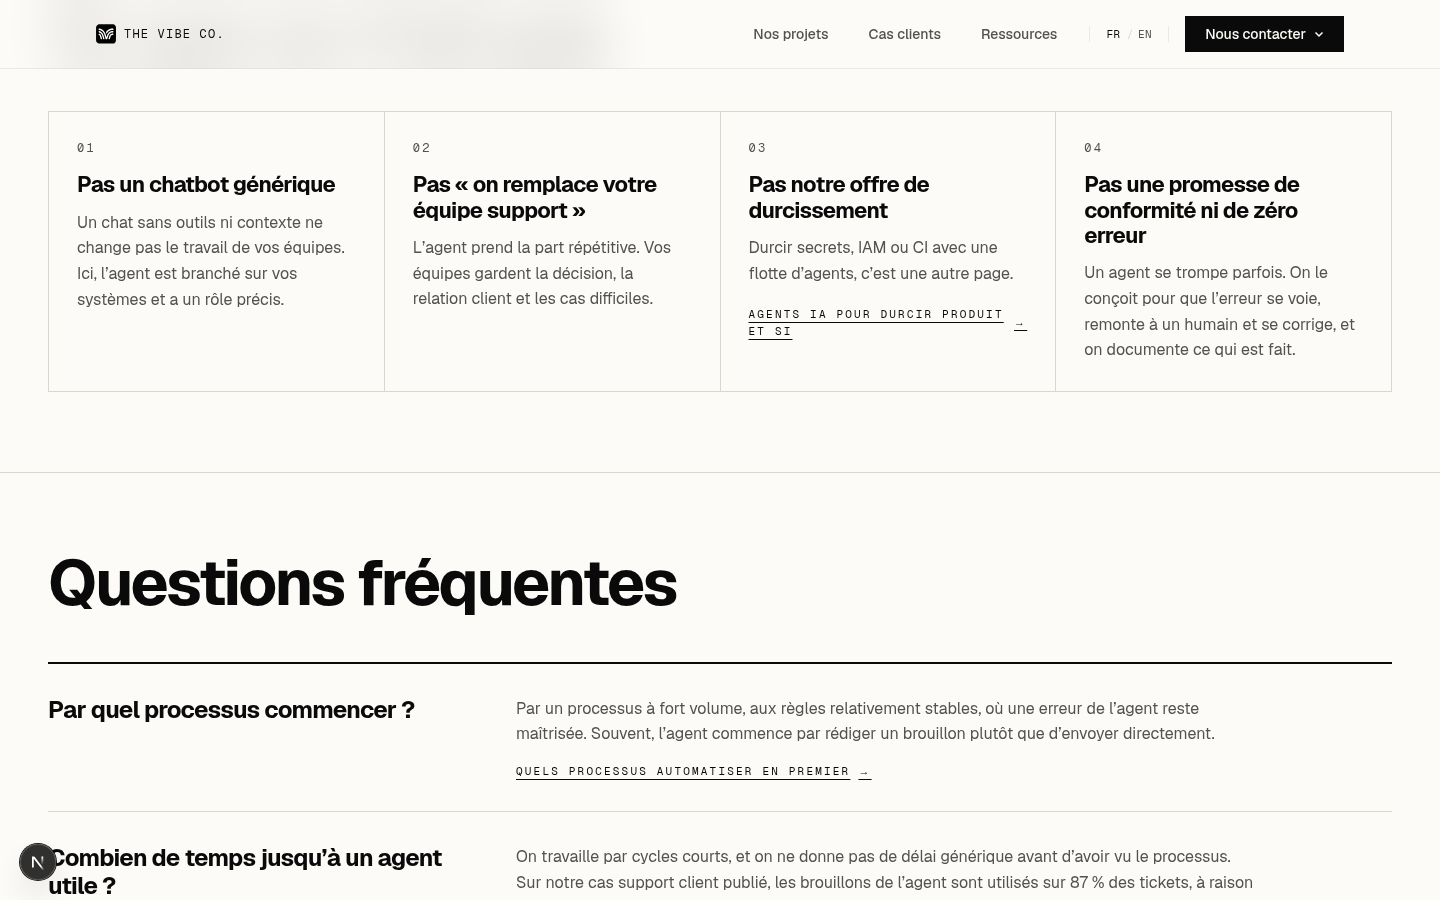
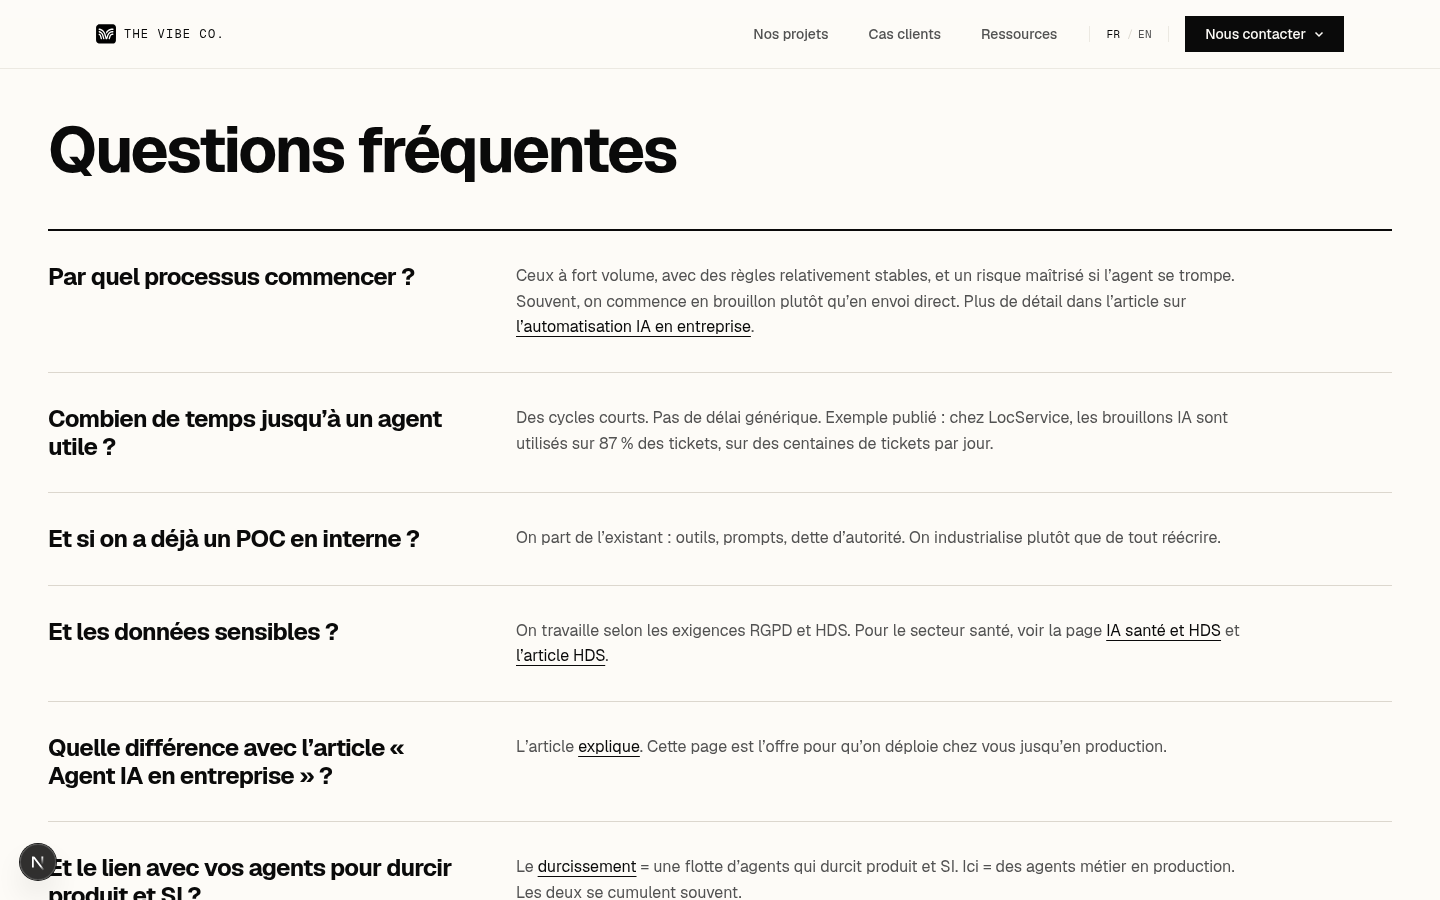
feat(seo): humanized French copy on the agents in production landing
Applies the Copy Humanizer French text to /fr/agents-ia-production, copy
only, same blocks. English renders unchanged.

- Hero, problem, offer, method, proof, "what this is not", FAQ and closing
  question follow the humanized copy word for word; title, meta and H1 stay
  as briefed.
- FAQ answers carry their links inline; the FAQPage markup restates them as
  plain text, and the timeline answer, which now names LocService, stays on
  the page only (structured data never carries client names).
- The booking CTA reads its labels from the page namespace ("Réponse sous
  24 h"); FinalCTA takes an optional per-page question, the shared default
  is unchanged elsewhere.
- Blocks the French copy drops (method and proof intros, the mid-page lead,
  card and under-FAQ links) render only when the language defines them.

diff --git a/src/components/agents-production/AgentsProductionPage.tsx b/src/components/agents-production/AgentsProductionPage.tsx
@@ -19,6 +19,7 @@ import {
   AGENTS_PRODUCTION_NOT_KEYS,
   AGENTS_PRODUCTION_OFFER_KEYS,
   AUTOMATION_GUIDE_PATHS,
+  plainText,
   POC_CHECKLIST_PATHS,
 } from "@/lib/agents-production";
 import { getCustomer, type ContentLocale } from "@/lib/customers";
@@ -117,10 +118,13 @@ export async function AgentsProductionPage({ locale }: { locale: string }) {
     serviceType: "Enterprise AI agent deployment and production operations",
     description: t("service.description"),
   });
+  // FAQPage carries the visible answer as plain text, with its inline link
+  // tags stripped. An answer that names a client is left out by
+  // `faqPageSchema` (see `isPublishable`).
   const faq = faqPageSchema(
     AGENTS_PRODUCTION_FAQ_KEYS.map((key) => ({
       question: t(`faq.items.${key}.q`),
-      answer: t(`faq.items.${key}.a`),
+      answer: plainText(t.raw(`faq.items.${key}.a`) as string),
     })),
   );
 
@@ -129,25 +133,55 @@ export async function AgentsProductionPage({ locale }: { locale: string }) {
   );
   const [featured, ...others] = cases;
 
-  // The links under each FAQ answer stay out of the answer itself, so the
-  // FAQPage markup restates the visible answer word for word.
-  const faqLinks: Partial<Record<(typeof AGENTS_PRODUCTION_FAQ_KEYS)[number], PageLink[]>> = {
-    start: [{ label: t("faq.links.automation"), href: automation, locale: pageLocale }],
-    timeline: [
-      { label: t("faq.links.locservice"), href: "/case-studies/locservice", locale: pageLocale },
-    ],
-    data: [
-      { label: t("faq.links.health"), href: splitPath(HEALTHCARE_AI_PATHS, locale), locale: pageLocale },
-      { label: t("faq.links.hds"), href: hdsGuide, locale: pageLocale },
-    ],
-    article: [{ label: t("faq.links.guide"), href: guide, locale: pageLocale }],
-    hardening: [{ label: t("faq.links.hardening"), href: hardening, locale: pageLocale }],
+  // Links inside the FAQ answers (the French copy) and under them (the
+  // English copy, which keeps a `faq.links` block). Each language only
+  // renders the variant its messages define.
+  const inlineLink = (href: string) => {
+    const InlineLink = (chunks: ReactNode) => (
+      <Link href={href} className={TEXT_LINK}>
+        {chunks}
+      </Link>
+    );
+    return InlineLink;
   };
+  const faqTags = {
+    automation: inlineLink(automation),
+    health: inlineLink(splitPath(HEALTHCARE_AI_PATHS, locale)),
+    hds: inlineLink(hdsGuide),
+    guide: inlineLink(guide),
+    hardening: inlineLink(hardening),
+  };
+  const faqLinks: Partial<Record<(typeof AGENTS_PRODUCTION_FAQ_KEYS)[number], PageLink[]>> =
+    t.has("faq.links")
+      ? {
+          start: [{ label: t("faq.links.automation"), href: automation, locale: pageLocale }],
+          timeline: [
+            { label: t("faq.links.locservice"), href: "/case-studies/locservice", locale: pageLocale },
+          ],
+          data: [
+            { label: t("faq.links.health"), href: splitPath(HEALTHCARE_AI_PATHS, locale), locale: pageLocale },
+            { label: t("faq.links.hds"), href: hdsGuide, locale: pageLocale },
+          ],
+          article: [{ label: t("faq.links.guide"), href: guide, locale: pageLocale }],
+          hardening: [{ label: t("faq.links.hardening"), href: hardening, locale: pageLocale }],
+        }
+      : {};
 
-  // The authority article exists in French only, so it is always linked there.
+  // Card links, only where the language's copy defines a label. The authority
+  // article exists in French only, so it is always linked there.
   const offerLinks: Partial<Record<(typeof AGENTS_PRODUCTION_OFFER_KEYS)[number], PageLink>> = {
-    scope: { label: t("offer.items.scope.link"), href: automation, locale: pageLocale },
-    authority: { label: t("offer.items.authority.link"), href: AGENT_AUTHORITY_PATH, locale: "fr" },
+    ...(t.has("offer.items.scope.link")
+      ? { scope: { label: t("offer.items.scope.link"), href: automation, locale: pageLocale } }
+      : {}),
+    ...(t.has("offer.items.authority.link")
+      ? {
+          authority: {
+            label: t("offer.items.authority.link"),
+            href: AGENT_AUTHORITY_PATH,
+            locale: "fr",
+          },
+        }
+      : {}),
   };
 
   const reading: { key: string; href: string; locale: Locale }[] = [
@@ -207,7 +241,11 @@ export async function AgentsProductionPage({ locale }: { locale: string }) {
             ))}
           </ul>
 
-          <AboutBookingCta page={page} location="cta_agents_production_hero" />
+          <AboutBookingCta
+            page={page}
+            location="cta_agents_production_hero"
+            namespace="agentsProduction"
+          />
           <AboutBackers label={tAbout("backedBy")} />
         </section>
 
@@ -300,9 +338,11 @@ export async function AgentsProductionPage({ locale }: { locale: string }) {
             >
               {t("method.title")}
             </h2>
-            <p className="m-0 mt-5 max-w-[680px] text-[15px] leading-[1.6] text-white/70 md:text-base">
-              {t("method.intro")}
-            </p>
+            {t.has("method.intro") ? (
+              <p className="m-0 mt-5 max-w-[680px] text-[15px] leading-[1.6] text-white/70 md:text-base">
+                {t("method.intro")}
+              </p>
+            ) : null}
 
             <span className="mt-12 block border-b border-white/15 pb-4 font-mono text-[11px] uppercase tracking-[0.2em] text-white/55 md:mt-16">
               {t("method.stepsLabel")}
@@ -336,10 +376,17 @@ export async function AgentsProductionPage({ locale }: { locale: string }) {
             <div className="mt-12 grid grid-cols-1 gap-6 md:mt-16 md:grid-cols-[200px_1fr] md:gap-12">
               <span aria-hidden="true" className="hidden md:block" />
               <div>
-                <p className="m-0 max-w-[620px] text-lg leading-[1.45] text-background md:text-[21px]">
-                  {t("method.ctaTitle")}
-                </p>
-                <AboutBookingCta page={page} location="cta_agents_production_method" inverse />
+                {t.has("method.ctaTitle") ? (
+                  <p className="m-0 max-w-[620px] text-lg leading-[1.45] text-background md:text-[21px]">
+                    {t("method.ctaTitle")}
+                  </p>
+                ) : null}
+                <AboutBookingCta
+                  page={page}
+                  location="cta_agents_production_method"
+                  namespace="agentsProduction"
+                  inverse
+                />
                 <Link
                   href={checklist}
                   className="mt-8 inline-flex items-center gap-2 font-mono text-[11px] uppercase tracking-[0.2em] text-background underline decoration-1 underline-offset-4 hover:text-white/70"
@@ -355,7 +402,9 @@ export async function AgentsProductionPage({ locale }: { locale: string }) {
         {/* 5 — Proof: agents already running, published cases only. */}
         <section className={`${SECTION} py-14 md:py-20`}>
           <h2 className={H2}>{t("proof.title")}</h2>
-          <p className={`${PROSE} mt-5 max-w-[680px]`}>{t("proof.intro")}</p>
+          {t.has("proof.intro") ? (
+            <p className={`${PROSE} mt-5 max-w-[680px]`}>{t("proof.intro")}</p>
+          ) : null}
 
           {featured ? (
             <article className="mt-10 grid grid-cols-1 border-2 border-foreground bg-background md:mt-14 md:grid-cols-[minmax(0,5fr)_minmax(0,7fr)]">
@@ -388,7 +437,7 @@ export async function AgentsProductionPage({ locale }: { locale: string }) {
                   href={`/case-studies/${featured.slug}`}
                   className={`${MONO_LINK} mt-8 self-start`}
                 >
-                  {t("proof.readCase")}
+                  {t("proof.readCase", { client: featured.client })}
                   <span aria-hidden="true">→</span>
                 </Link>
               </div>
@@ -410,7 +459,7 @@ export async function AgentsProductionPage({ locale }: { locale: string }) {
                   href={`/case-studies/${customer.slug}`}
                   className={`${MONO_LINK} mt-6 border-t border-border pt-5`}
                 >
-                  {t("proof.readCase")}
+                  {t("proof.readCase", { client: customer.client })}
                   <span aria-hidden="true">→</span>
                 </Link>
               </article>
@@ -428,10 +477,12 @@ export async function AgentsProductionPage({ locale }: { locale: string }) {
                   {String(i + 1).padStart(2, "0")}
                 </span>
                 <h3 className="m-0 mt-4 text-[20px] font-bold leading-[1.15] tracking-[-0.03em] text-foreground md:text-[22px]">
-                  {t(`not.items.${key}.title`)}
+                  {t.rich(`not.items.${key}.title`, { hardening: inlineLink(hardening) })}
                 </h3>
-                <p className={`${PROSE} mt-3`}>{t(`not.items.${key}.desc`)}</p>
-                {key === "hardening" ? (
+                {t.has(`not.items.${key}.desc`) ? (
+                  <p className={`${PROSE} mt-3`}>{t(`not.items.${key}.desc`)}</p>
+                ) : null}
+                {t.has(`not.items.${key}.link`) ? (
                   <Link href={hardening} className={`${MONO_LINK} mt-5`}>
                     {t("not.items.hardening.link")}
                     <span aria-hidden="true">→</span>
@@ -456,7 +507,7 @@ export async function AgentsProductionPage({ locale }: { locale: string }) {
                   {t(`faq.items.${key}.q`)}
                 </h3>
                 <div className="flex max-w-[70ch] flex-col gap-4">
-                  <p className={PROSE}>{t(`faq.items.${key}.a`)}</p>
+                  <p className={PROSE}>{t.rich(`faq.items.${key}.a`, faqTags)}</p>
                   {faqLinks[key] ? (
                     <div className="flex flex-wrap gap-x-6 gap-y-3">
                       {faqLinks[key].map((link) => (
@@ -528,7 +579,13 @@ export async function AgentsProductionPage({ locale }: { locale: string }) {
           </div>
         </section>
 
-        <FinalCTA />
+        <FinalCTA
+          title={
+            t.has("finalCta.titleLine1")
+              ? { line1: t("finalCta.titleLine1"), line2: t("finalCta.titleLine2") }
+              : undefined
+          }
+        />
       </main>
       <Footer />
     </div>

diff --git a/src/lib/agents-production.test.ts b/src/lib/agents-production.test.ts
@@ -7,6 +7,7 @@ import {
   AGENTS_PRODUCTION_CASE_SLUGS,
   AGENTS_PRODUCTION_FAQ_KEYS,
   AUTOMATION_GUIDE_PATHS,
+  plainText,
   POC_CHECKLIST_PATHS,
 } from "./agents-production";
 import { BOOKING_URL } from "./booking";
@@ -87,15 +88,38 @@ describe("agents in production landing", () => {
     expect(MESSAGES.en.proof.cases.locservice).toContain("87%");
   });
 
-  test("the whole FAQ goes into the FAQPage markup", () => {
-    for (const messages of Object.values(MESSAGES)) {
-      const items = AGENTS_PRODUCTION_FAQ_KEYS.map((key) => ({
-        question: messages.faq.items[key].q,
-        answer: messages.faq.items[key].a,
+  test("the FAQPage restates the visible answers as plain text", () => {
+    const answers = (locale: "fr" | "en") =>
+      AGENTS_PRODUCTION_FAQ_KEYS.map((key) => ({
+        question: MESSAGES[locale].faq.items[key].q,
+        answer: plainText(MESSAGES[locale].faq.items[key].a),
       }));
-      const schema = faqPageSchema(items) as { mainEntity: unknown[] };
-      expect(schema.mainEntity).toHaveLength(AGENTS_PRODUCTION_FAQ_KEYS.length);
+    type Entity = { name: string; acceptedAnswer: { text: string } };
+
+    // English keeps every answer free of client names: all six go in.
+    const en = faqPageSchema(answers("en")) as { mainEntity: Entity[] };
+    expect(en.mainEntity).toHaveLength(AGENTS_PRODUCTION_FAQ_KEYS.length);
+
+    // The French timeline answer names LocService, which structured data
+    // never carries, so that one stays on the page only.
+    const fr = faqPageSchema(answers("fr")) as { mainEntity: Entity[] };
+    expect(fr.mainEntity.map((entity) => entity.name)).not.toContain(
+      MESSAGES.fr.faq.items.timeline.q,
+    );
+    expect(fr.mainEntity).toHaveLength(AGENTS_PRODUCTION_FAQ_KEYS.length - 1);
+    for (const entity of fr.mainEntity) {
+      expect(entity.acceptedAnswer.text).not.toMatch(/[<>]/);
     }
+    expect(plainText(MESSAGES.fr.faq.items.article.a)).toBe(
+      "L’article explique. Cette page est l’offre pour qu’on déploie chez vous jusqu’en production.",
+    );
+  });
+
+  test("the booking CTA keeps the briefed French labels", () => {
+    expect(MESSAGES.fr.bookCall).toBe("Prendre 30 minutes");
+    expect(MESSAGES.fr.response).toBe("Réponse sous 24 h");
+    expect(MESSAGES.en.bookCall).toBe(en.about.bookCall);
+    expect(MESSAGES.en.response).toBe(en.about.response);
   });
 
   test("the Service is provided by the Organization and carries no offer", () => {

diff --git a/src/components/home/FinalCTA.tsx b/src/components/home/FinalCTA.tsx
@@ -11,10 +11,21 @@ import { FitText } from "./FitText";
  * index pages run on 100rem, the two detail pages on 80rem. The width used to
  * be hard-coded to 1400px, which matched neither — so its kicker never lined
  * up with the page around it. Each caller states its own rail now.
+ *
+ * A landing can swap the two-line question for its own (`title`); everything
+ * else, the call and the contact lines, stays shared.
  */
-export function FinalCTA({ rail = "wide" }: { rail?: "wide" | "narrow" }) {
+export function FinalCTA({
+  rail = "wide",
+  title,
+}: {
+  rail?: "wide" | "narrow";
+  title?: { line1: string; line2: string };
+}) {
   const reduceMotion = useReducedMotion() ?? false;
   const t = useTranslations("finalCta");
+  const line1 = title?.line1 ?? t("titleLine1");
+  const line2 = title?.line2 ?? t("titleLine2");
 
   return (
     <section
@@ -28,8 +39,8 @@ export function FinalCTA({ rail = "wide" }: { rail?: "wide" | "narrow" }) {
         {/* Looser than the hero's poster: this pair carries accents ("à",
             "è") that would otherwise cut into the line above. */}
         <h2 className="m-0 mt-5 font-extrabold leading-[0.92] tracking-[-1px] [container-type:inline-size]">
-          <FitText>{t("titleLine1")}</FitText>
-          <FitText className="text-transparent [-webkit-text-stroke:2px_var(--background)]">{t("titleLine2")}</FitText>
+          <FitText>{line1}</FitText>
+          <FitText className="text-transparent [-webkit-text-stroke:2px_var(--background)]">{line2}</FitText>
         </h2>
         <a
           href={BOOKING_URL}
@@ -103,14 +114,14 @@ export function FinalCTA({ rail = "wide" }: { rail?: "wide" | "narrow" }) {
               letterSpacing: "-0.05em",
             }}
           >
-            <span>{t("titleLine1")}</span>
+            <span>{line1}</span>
             <span
               style={{
                 WebkitTextStroke: "2px var(--foreground)",
                 color: "transparent",
               }}
             >
-              {t("titleLine2")}
+              {line2}
             </span>
           </motion.h2>
 

diff --git a/src/lib/agents-production.ts b/src/lib/agents-production.ts
@@ -76,3 +76,11 @@ export const AUTOMATION_GUIDE_PATHS: LocalizedPath = {
   fr: "/resources/articles/automatisation-ia-entreprise",
   en: "/resources/articles/ai-automation-which-processes-first",
 };
+
+/**
+ * A message's text with its rich-text tags (`<guide>…</guide>`) removed, for
+ * the FAQPage markup, which restates the visible answer as plain text.
+ */
+export function plainText(message: string): string {
+  return message.replace(/<\/?[a-zA-Z]+>/g, "");
+}
